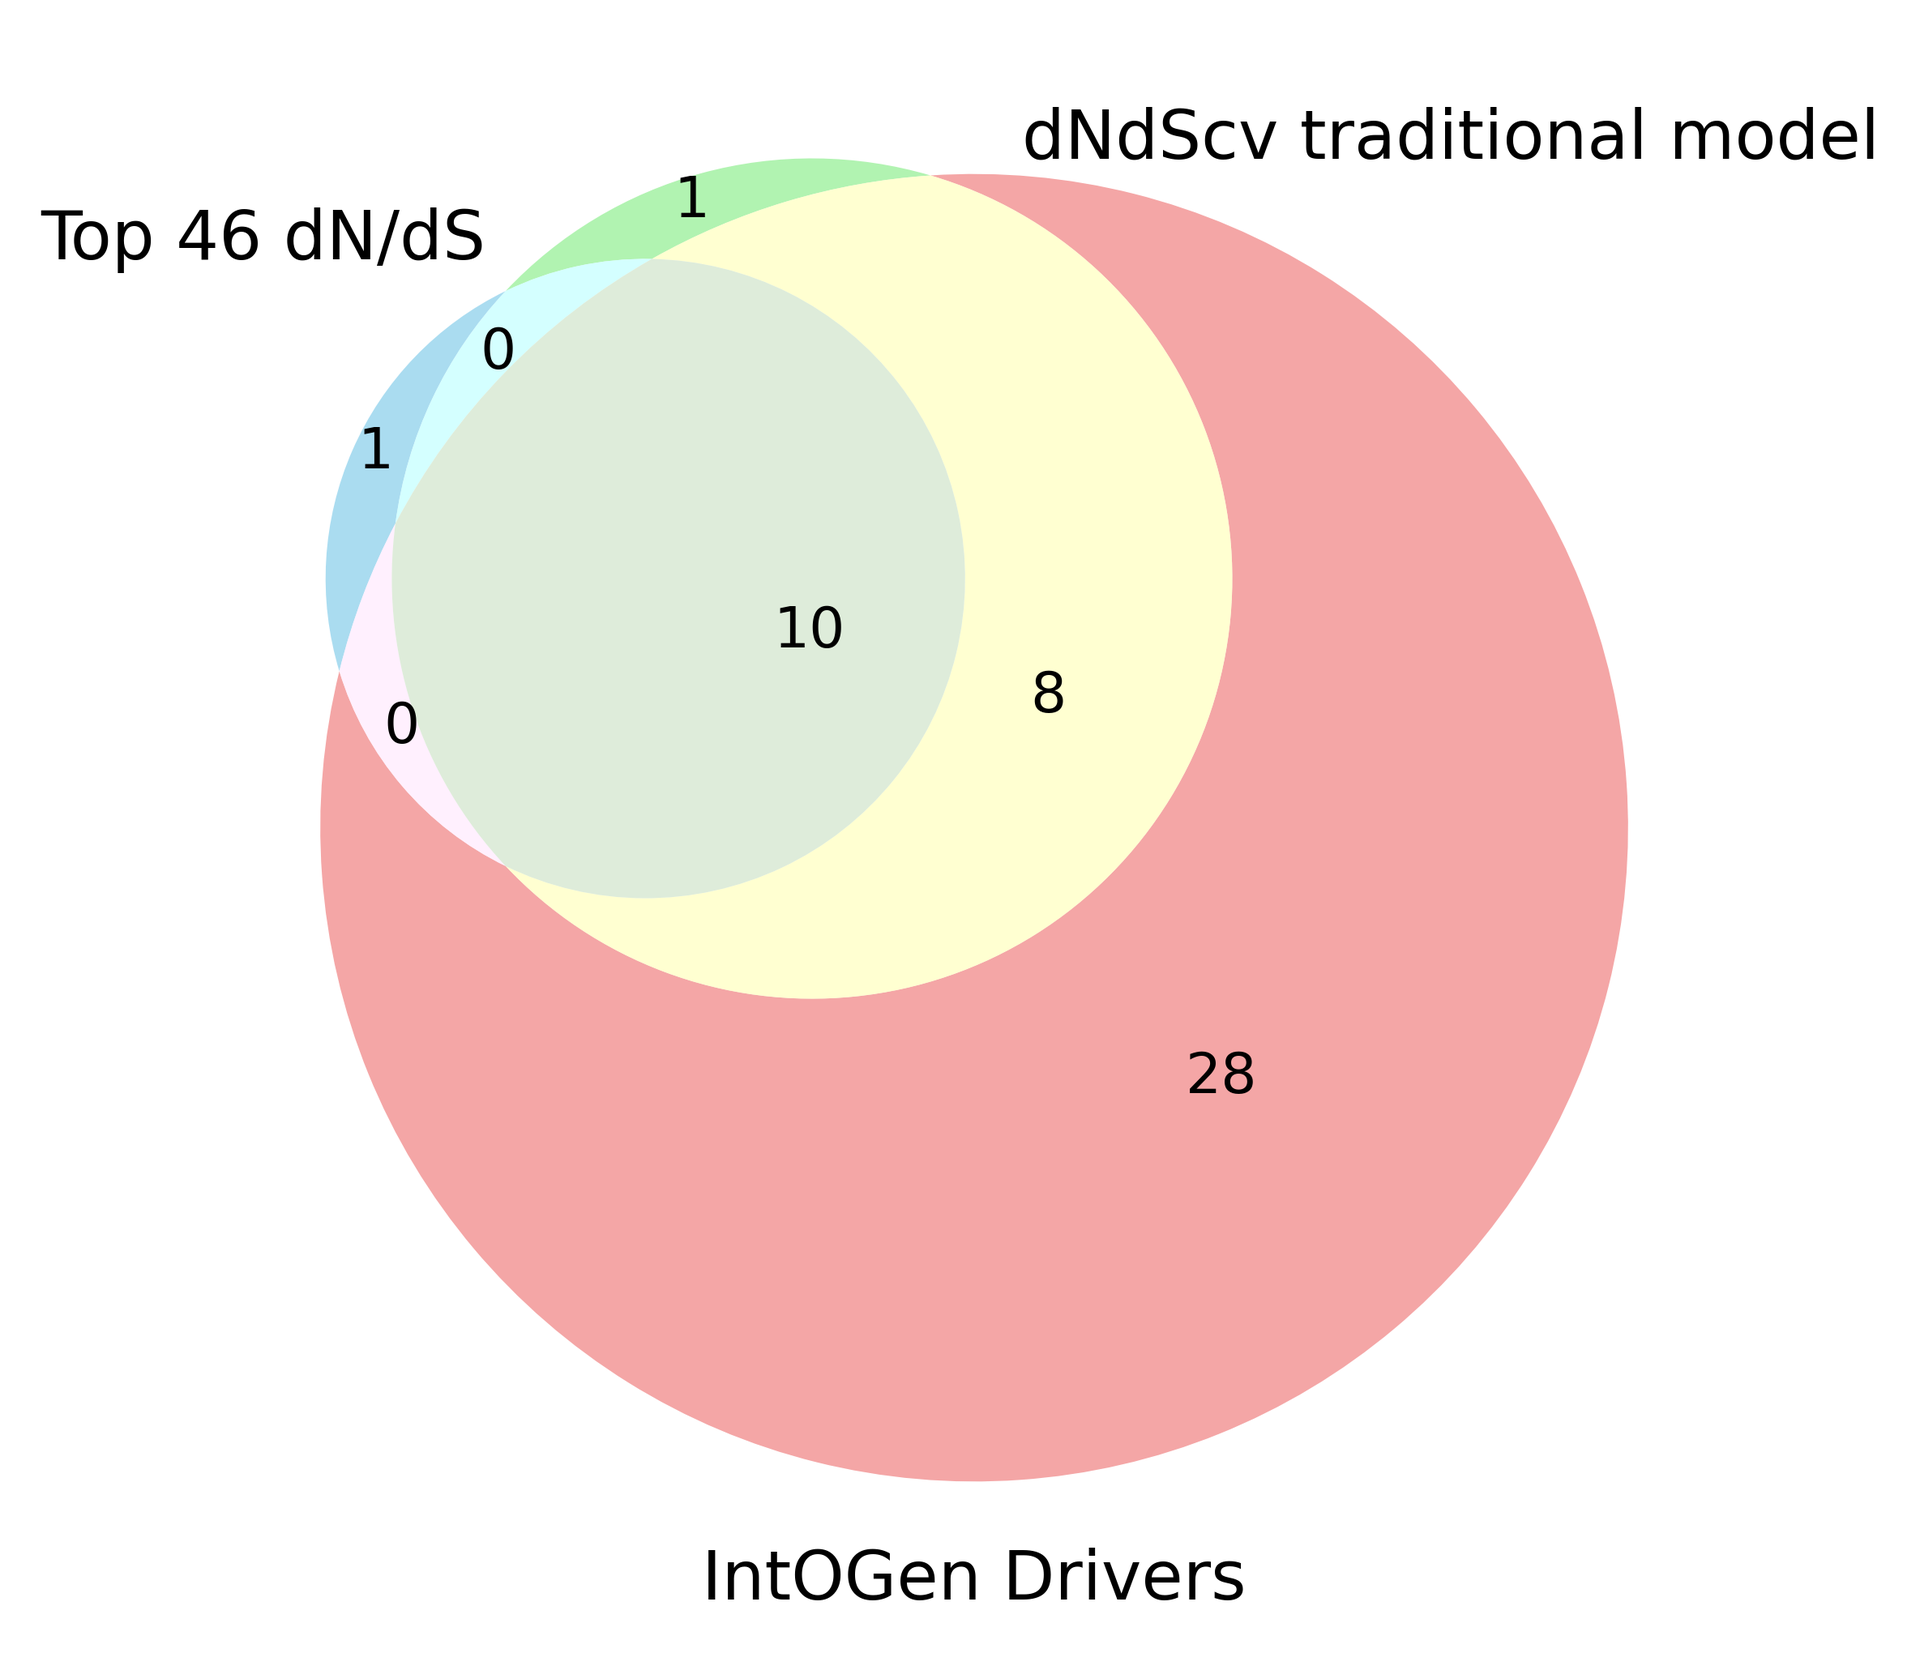
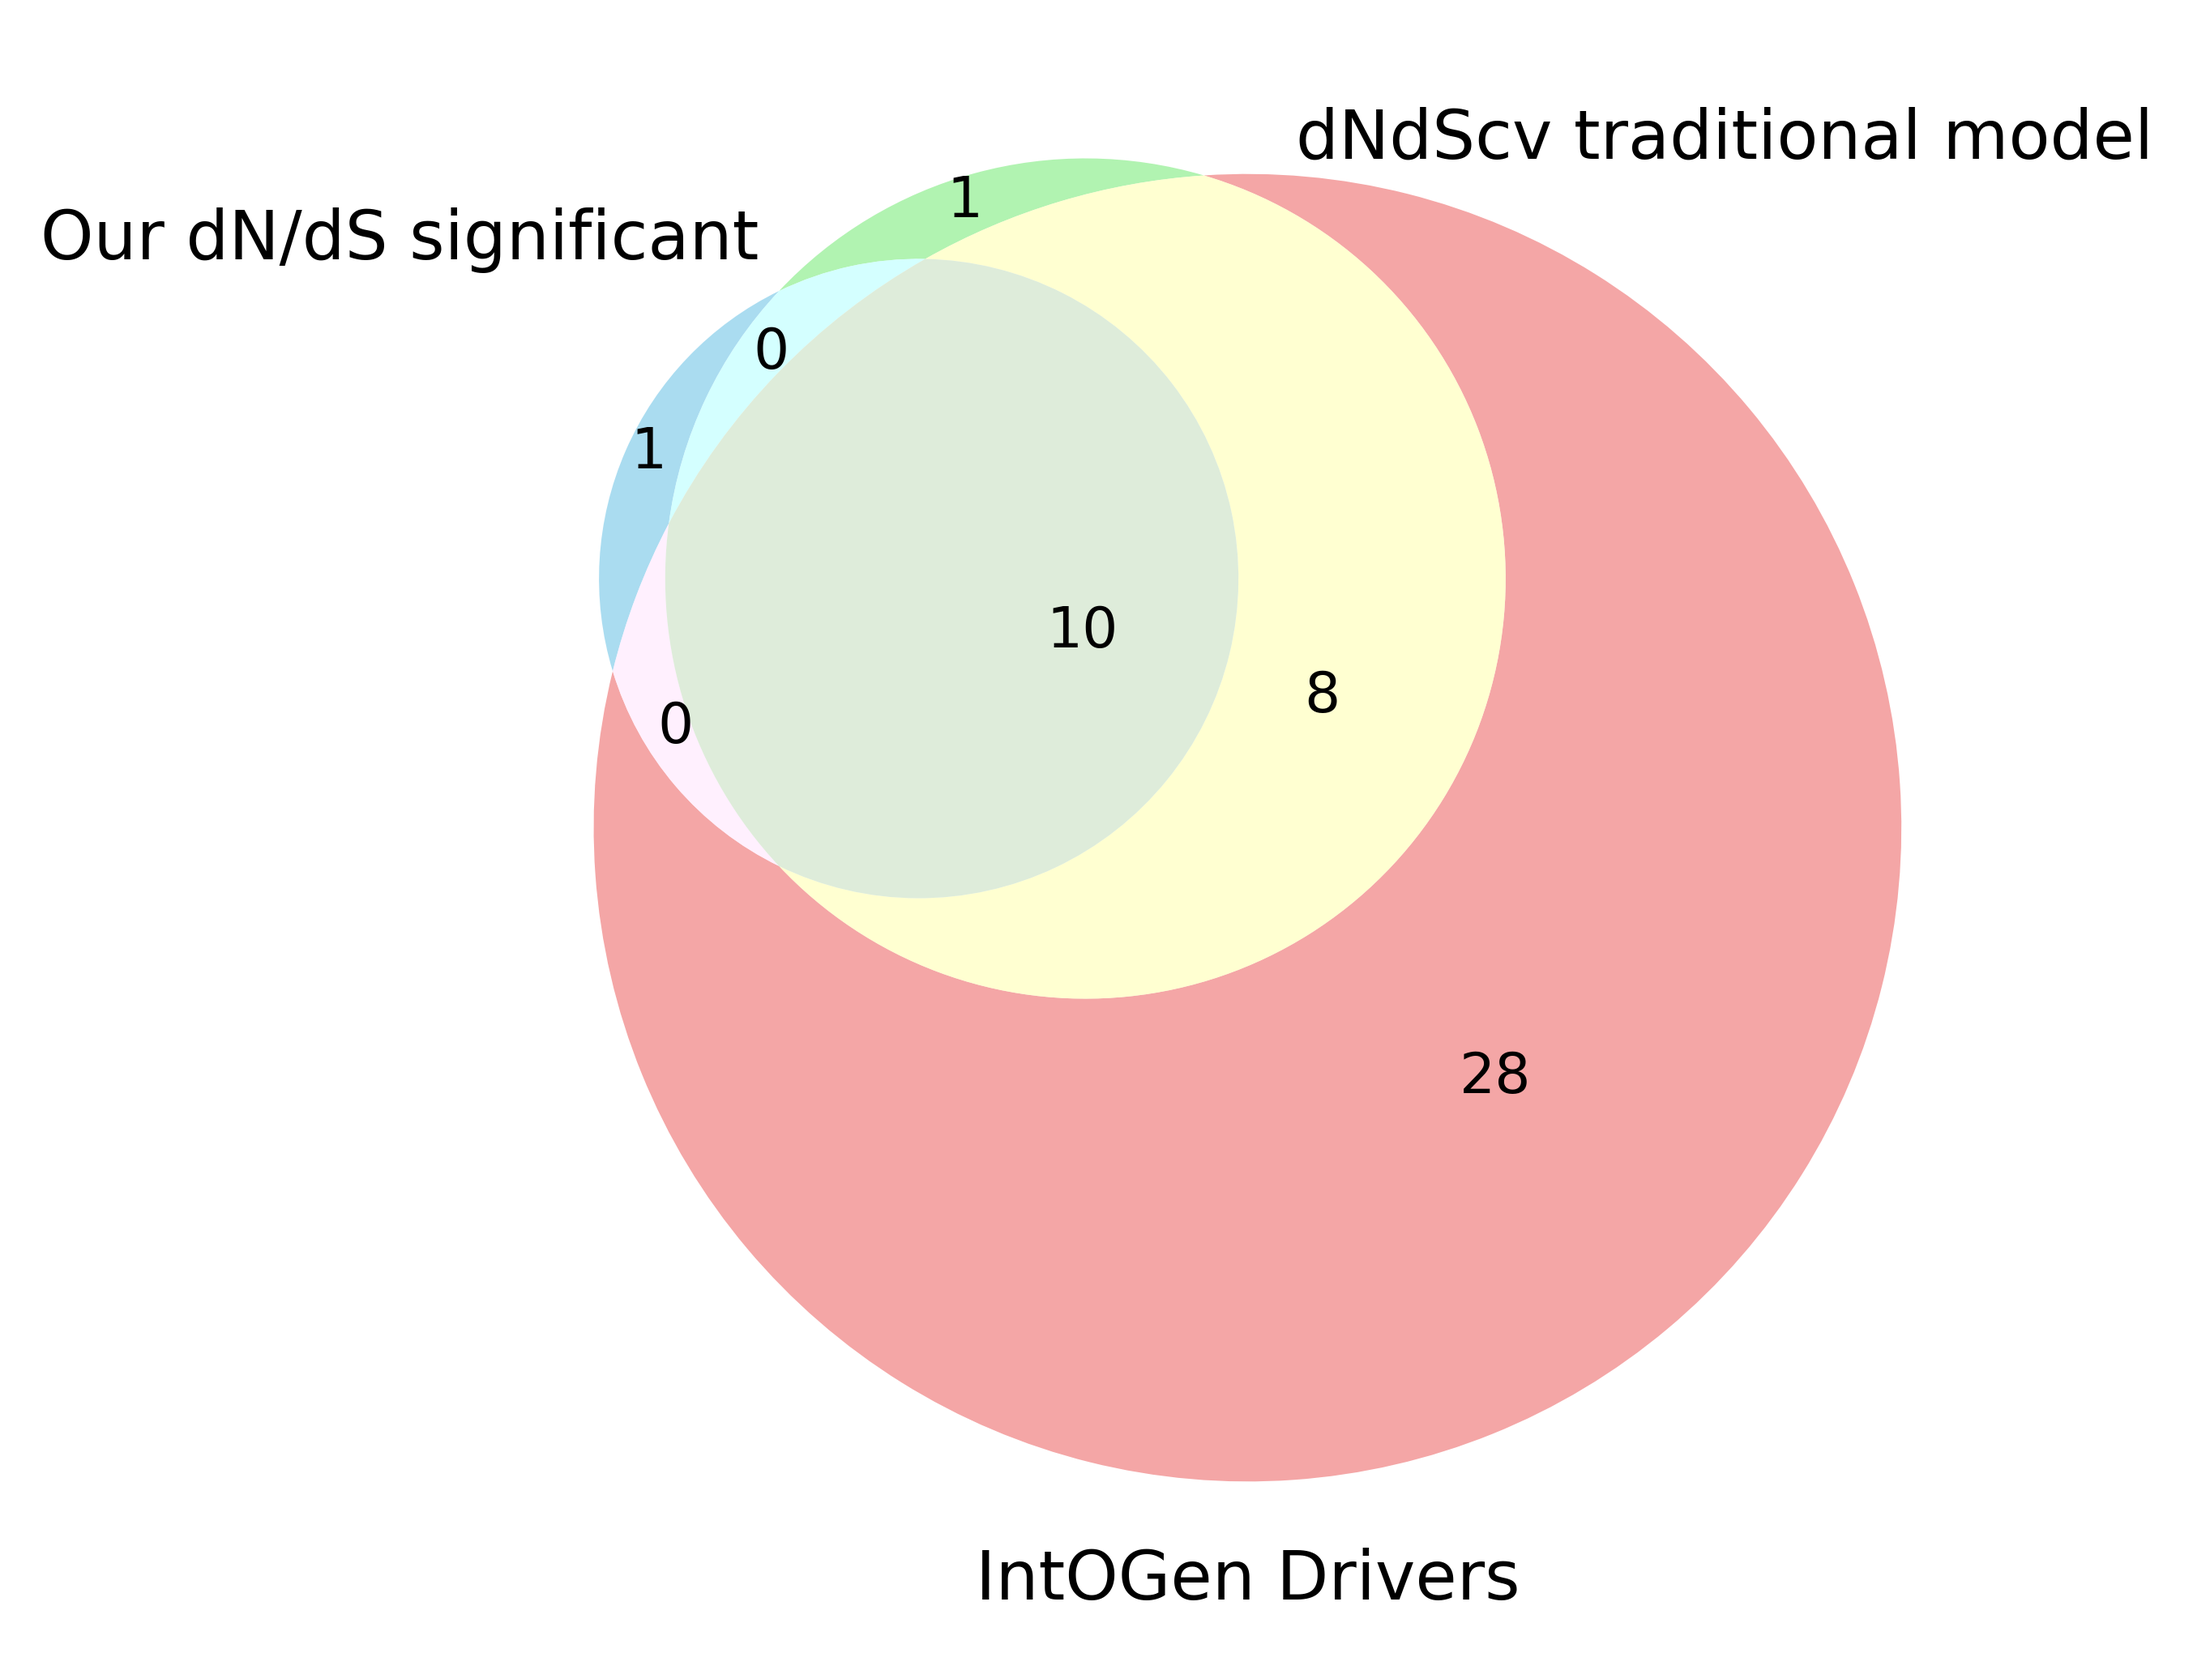
venn diagram title fixed

diff --git a/project-2/src/pipeline/plot.py b/project-2/src/pipeline/plot.py
@@ -405,7 +405,7 @@ def plot_dNdS_stacked_bar(df, columns_to_plot=["dN/dS"], top_n=46, IntOGen_list=
 
     # Create the Venn diagram - store the output to modify fonts
     v = venn3([set_top_n, set_dNdScv, set_intogen],
-            set_labels=('Top '+ str(top_n) + ' dN/dS', 'dNdScv traditional model', 'IntOGen Drivers'),
+            set_labels=('Our dN/dS significant', 'dNdScv traditional model', 'IntOGen Drivers'),
             set_colors=('skyblue', 'lightgreen', 'lightcoral'), # Optional: set colors
             alpha=0.7 # Optional: set transparency
             )
